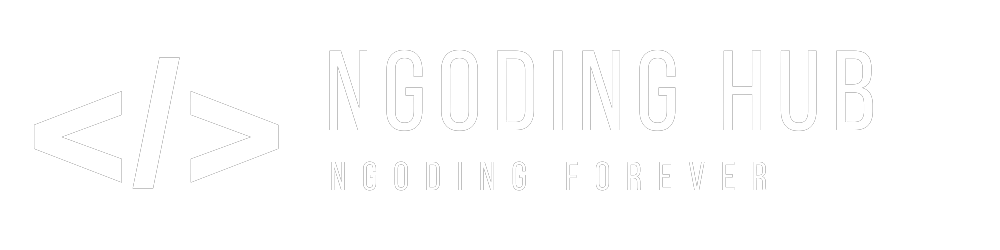
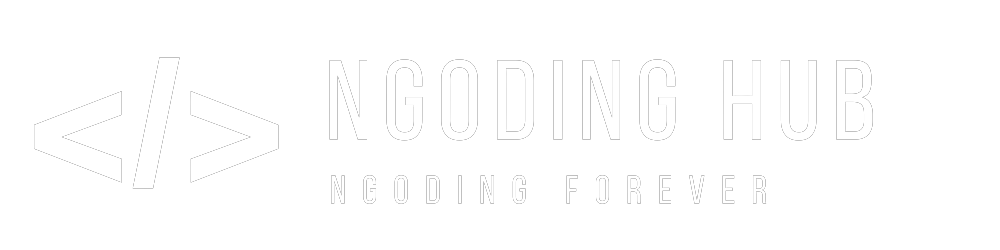
initial commit

diff --git a/resources/js/Pages/Index.jsx b/resources/js/Pages/Index.jsx
@@ -1,15 +1,18 @@
 import Layout from "./Layout";
 
 export default function Index({title}) {
+
+
+
     return (
         <Layout title={title}>
-            <div className="w-full px-32 pt-32 text-white h-screen bg-img">
+            <div className="w-full px-32 pt-40 text-white h-screen bg-img">
                 <span className="left-16 relative before:content-[''] before:absolute before:w-7 before:top-1/2 before:-left-9 before:bg-white before:h-[1px] after:content-[''] after:absolute after:w-7 after:top-1/2 after:left-11 after:bg-white after:h-[1px]">Hello</span>
                 <h1 className="font-medium text-xl">I'am ahmad, and i'm</h1>
                 <h1 className="text-7xl">Programmer</h1><br />
                 <span className="text-xl">" want to be good at coding? Relax, I'm ready to be your partner <br /> <span className="text-2xl">anytime and anywhere."</span></span>
             </div>
-            <div className="w-full h-screen bg-dark">
+            <div className="w-full h-screen">
 
             </div>
         </Layout>

diff --git a/resources/js/Components/Navbar.jsx b/resources/js/Components/Navbar.jsx
@@ -3,9 +3,9 @@ import Links from "./Links";
 export default function Navbar() {
 
     return (
-        <nav className="w-screen p-5 flex justify-around items-center font-medium bg-slate-900 text-gray-400">
+        <nav className="w-screen p-5 fixed flex justify-around items-center font-medium bg-gradient-to-b from-slate-900 to-transparent text-gray-400 text-xl z-50">
             {/* <h1 className="whitespace-nowrap text-xl text-gray-100">Ngoding Hub</h1> */}
-            <img src="/img/judul.png" width="200" />
+            <img src="/img/judul.png" width="250" />
             <div className=" w-1/3 flex justify-around">
                 <Links href="/" active={route().current('')}>
                     <span>Home</span>

diff --git a/resources/js/Components/footer.jsx b/resources/js/Components/footer.jsx
@@ -1,9 +1,9 @@
 export default function Footer() {
     return (
         <>
-            <footer className="bg-gray-300 w-screen px-20 py-7">
+            <footer className="bg-slate-700 w-screen px-20 py-7">
                 <div className="text-center border-t border-gray-700/50 pt-7 text-gray-700 font-semibold">
-                    <h1>Copyright © 2023 TailwindCss by Ngoding Hub.</h1>
+                    <h1>Copyright © 2023 by Ahmad Fauzan made with ❤.</h1>
                 </div>
             </footer>
         </>

diff --git a/resources/js/Pages/Layout.jsx b/resources/js/Pages/Layout.jsx
@@ -1,5 +1,5 @@
 import Navbar from "@/Components/Navbar";
-import Footer from "@/Components/footer";
+import Footer from "@/Components/Footer";
 import { Head } from "@inertiajs/react";
 
 export default function Layout({title, children, className = ''}) {

diff --git a/resources/views/app.blade.php b/resources/views/app.blade.php
@@ -16,6 +16,11 @@
 
     {{-- Tailwindcss --}}
     <script src="https://cdn.tailwindcss.com"></script>
+    <style>
+        bg {
+            background: #0f172a;
+        }
+    </style>
 
     <!-- Scripts -->
     @routes
@@ -24,7 +29,7 @@
     @inertiaHead
 </head>
 
-<body class="font-sans antialiased overflow-x-hidden bg-black">
+<body class="font-sans antialiased overflow-x-hidden bg-black selection:bg-slate-300/50">
     @inertia
 </body>
 
